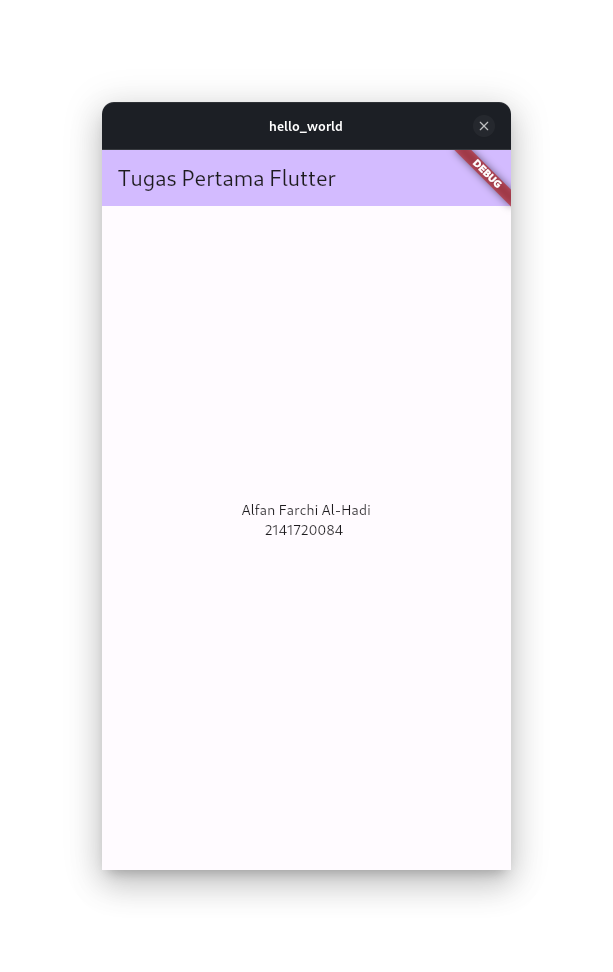
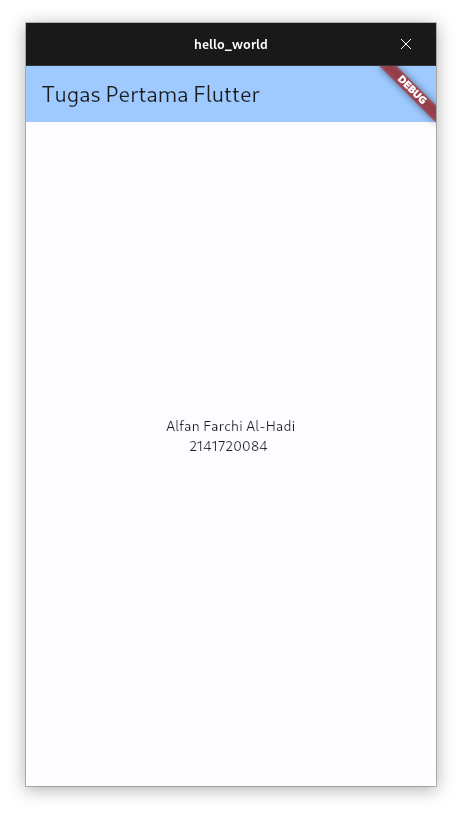
New content

Changed region(s): [[0.0303, 0.0, 0.9697, 0.9816], [0.3636, 0.5215, 0.6364, 0.5521]]

diff --git a/lib/main.dart b/lib/main.dart
@@ -28,7 +28,7 @@ class MyApp extends StatelessWidget {
         //
         // This works for code too, not just values: Most code changes can be
         // tested with just a hot reload.
-        colorScheme: ColorScheme.fromSeed(seedColor: Colors.deepPurple),
+        colorScheme: ColorScheme.fromSeed(seedColor: Colors.blue),
         useMaterial3: true,
       ),
       home: const MyHomePage(title: 'Tugas Pertama Flutter'),
